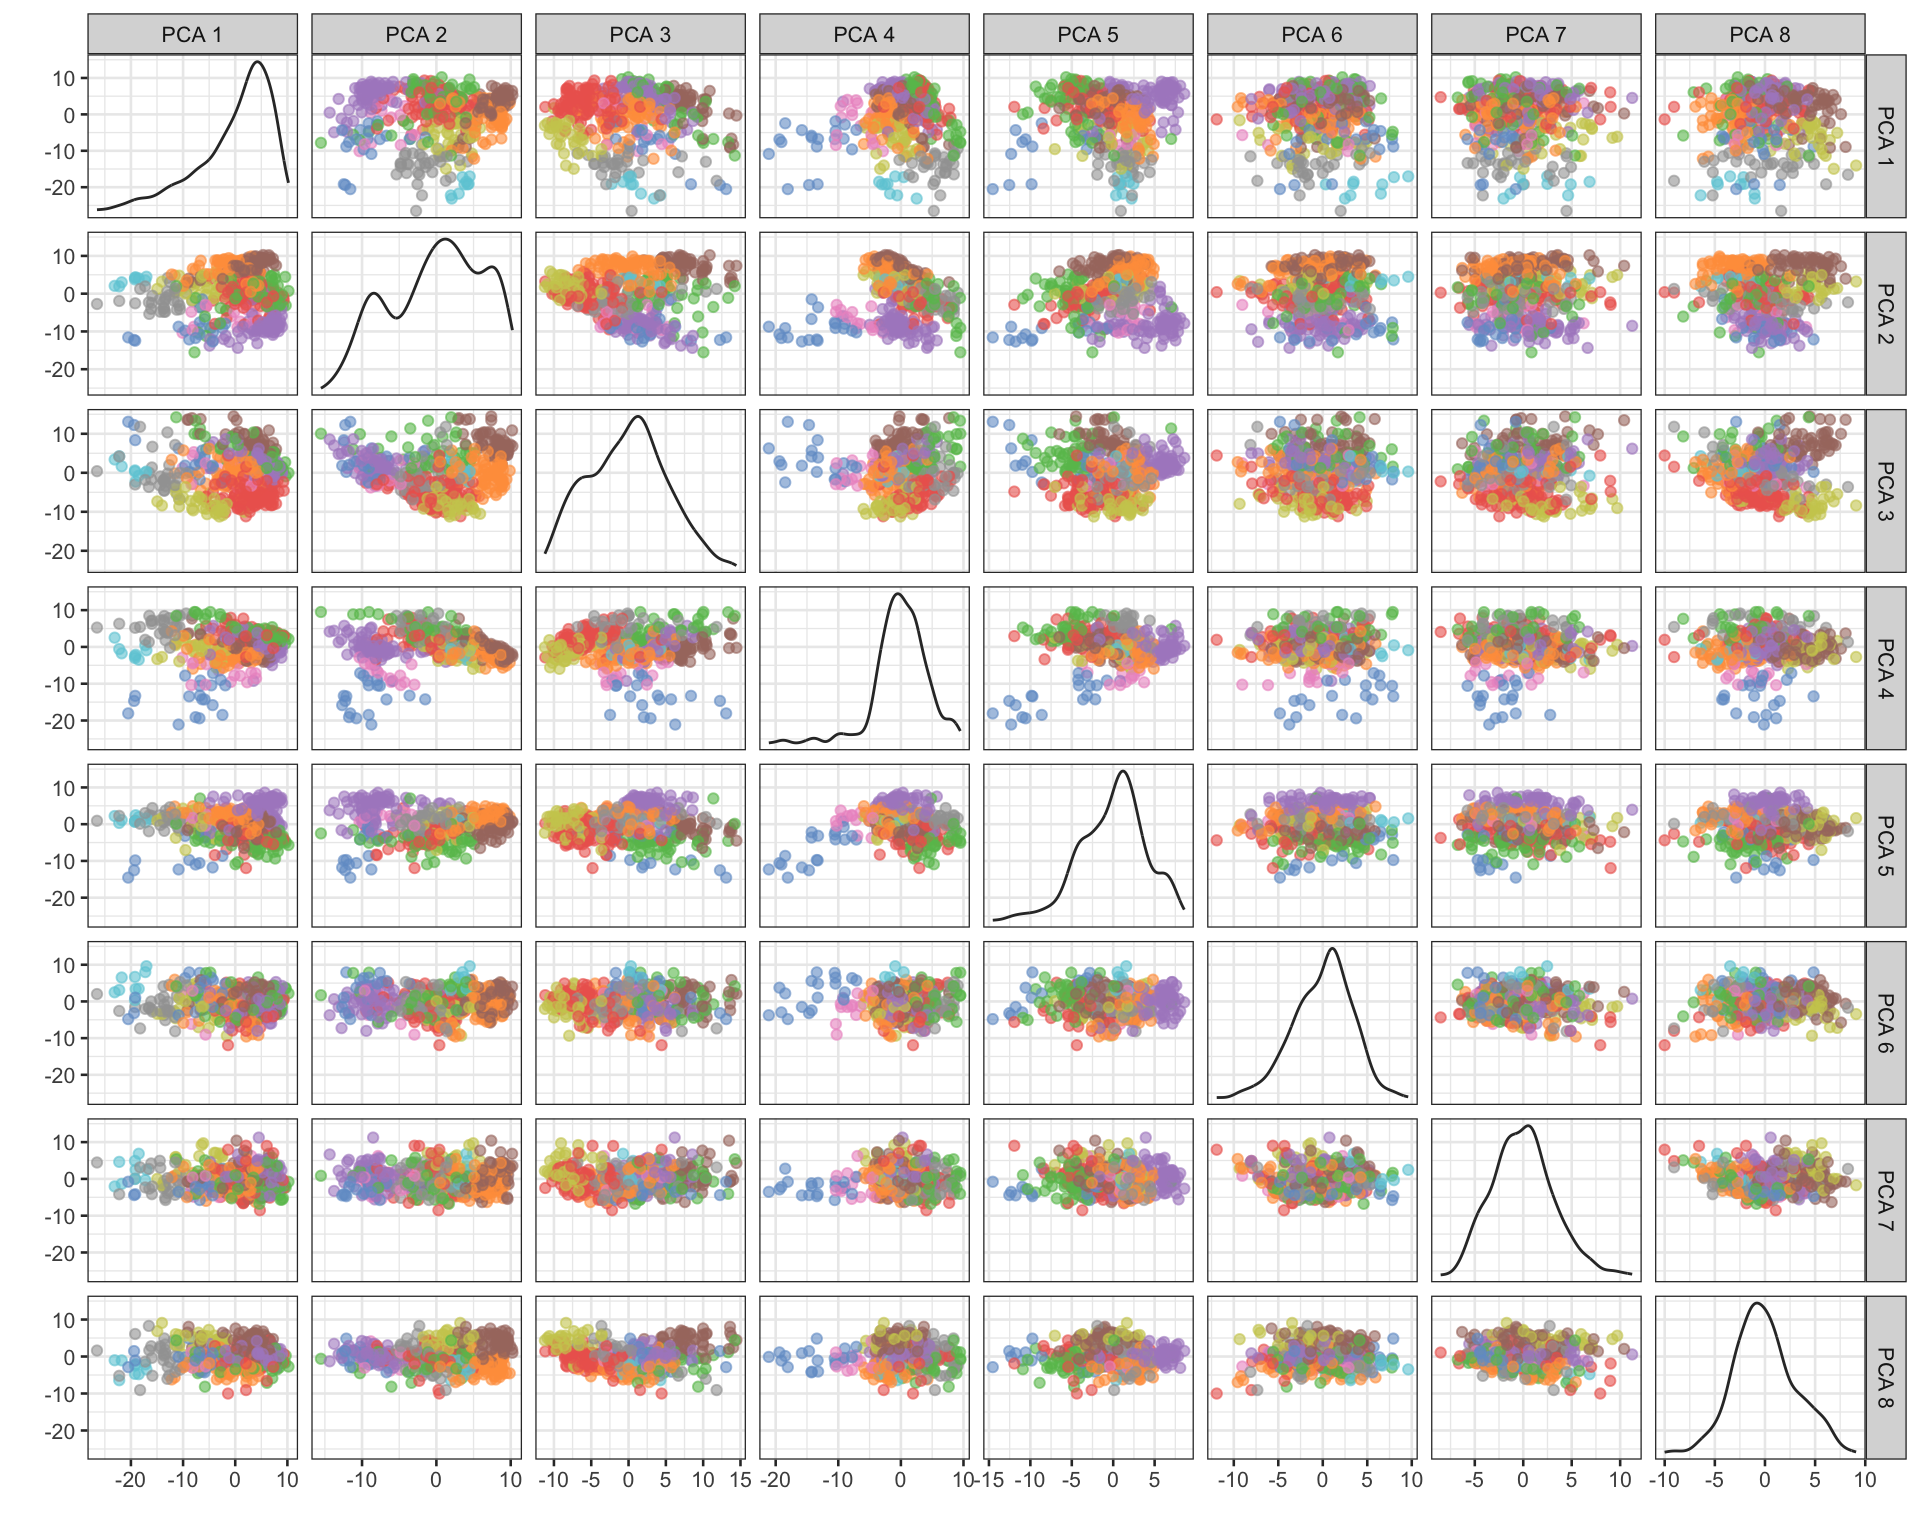
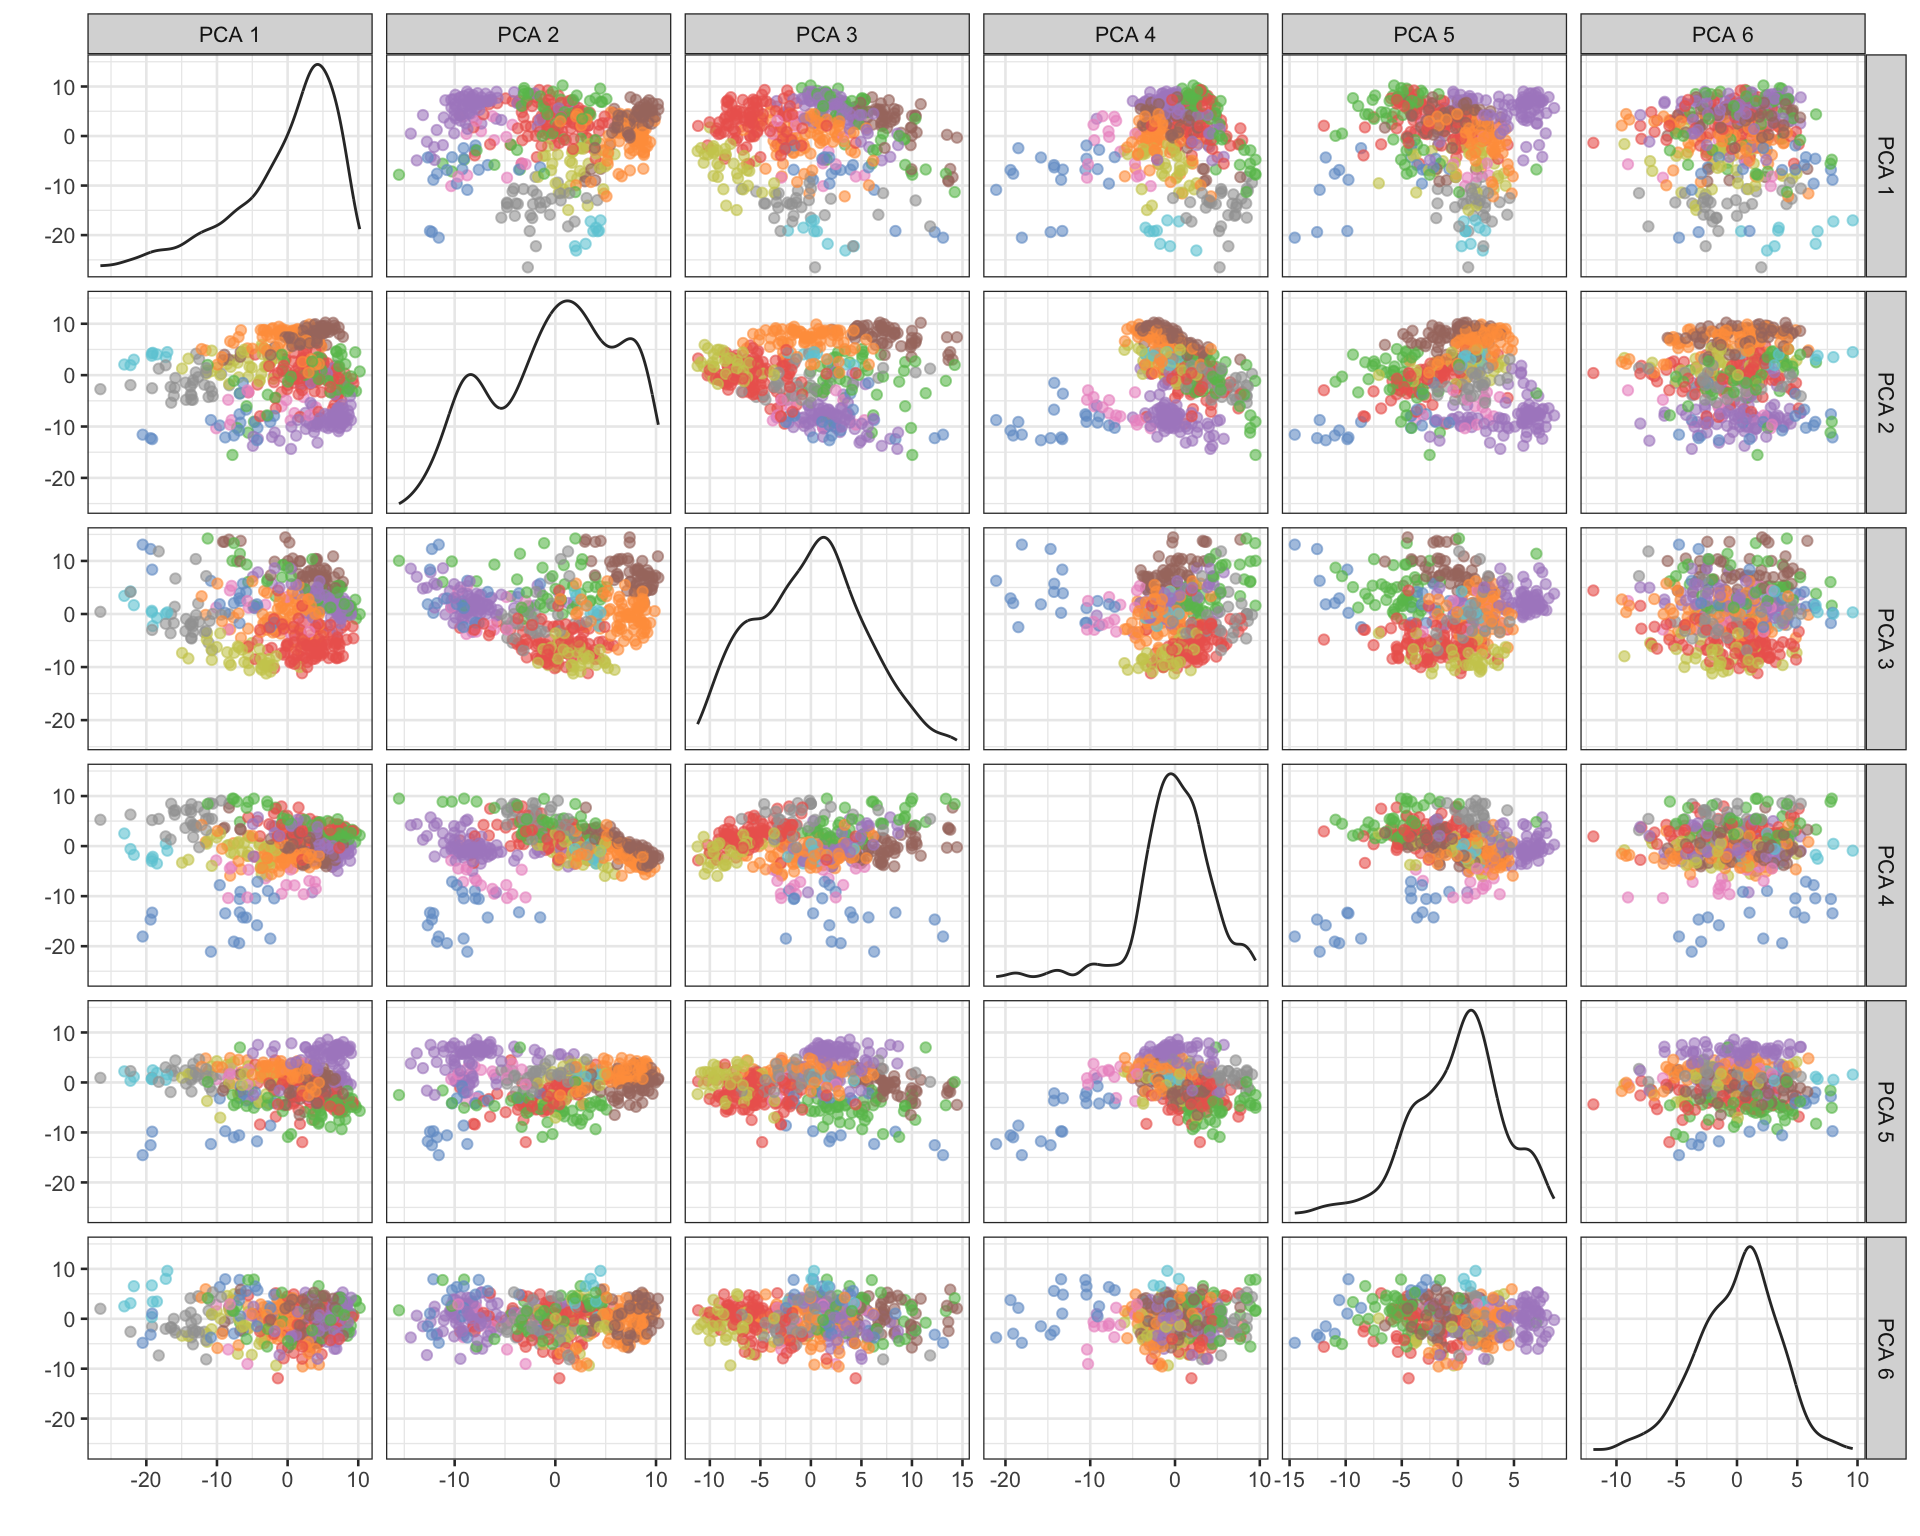
Build

diff --git a/docs/04-reduced-dimensions.html b/docs/04-reduced-dimensions.html
@@ -515,16 +515,16 @@ This reproducible <a href="http://rmarkdown.rstudio.com">R Markdown</a> analysis
 <div class="panel panel-default">
 <div class="panel-heading">
 <p class="panel-title">
-<a data-toggle="collapse" data-parent="#workflowr-checks" href="#strongRepositoryversionstrongahrefhttpsgithubcomjma1991EBKDRHOM2tree0d173d6681d5c1ff913b618a4fe3071f0dde3400targetblank0d173d6a"> <span class="glyphicon glyphicon-ok text-success" aria-hidden="true"></span> <strong>Repository version:</strong> <a href="https://github.com/jma1991/EB_KDR_HOM_2/tree/0d173d6681d5c1ff913b618a4fe3071f0dde3400" target="_blank">0d173d6</a> </a>
+<a data-toggle="collapse" data-parent="#workflowr-checks" href="#strongRepositoryversionstrongahrefhttpsgithubcomjma1991EBKDRHOM2tree044345e86510ce51dbc255fd4be4ea892bd8cd78targetblank044345ea"> <span class="glyphicon glyphicon-ok text-success" aria-hidden="true"></span> <strong>Repository version:</strong> <a href="https://github.com/jma1991/EB_KDR_HOM_2/tree/044345e86510ce51dbc255fd4be4ea892bd8cd78" target="_blank">044345e</a> </a>
 </p>
 </div>
[2 lines of base64/hex data omitted]
 <div class="panel-body">
 <p>
 Great! You are using Git for version control. Tracking code development and connecting the code version to the results is critical for reproducibility.
 </p>
 <p>
-The results in this page were generated with repository version <a href="https://github.com/jma1991/EB_KDR_HOM_2/tree/0d173d6681d5c1ff913b618a4fe3071f0dde3400" target="_blank">0d173d6</a>. See the <em>Past versions</em> tab to see a history of the changes made to the R Markdown and HTML files.
+The results in this page were generated with repository version <a href="https://github.com/jma1991/EB_KDR_HOM_2/tree/044345e86510ce51dbc255fd4be4ea892bd8cd78" target="_blank">044345e</a>. See the <em>Past versions</em> tab to see a history of the changes made to the R Markdown and HTML files.
 </p>
 <p>
 Note that you need to be careful to ensure that all relevant files for the analysis have been committed to Git prior to generating the results (you can use <code>wflow_publish</code> or <code>wflow_git_commit</code>). workflowr only checks the R Markdown file, but you know if there are other scripts or data files that it depends on. Below is the status of the Git repository when the results were generated:
@@ -594,6 +594,40 @@ Message
 </tr>
 </thead>
 <tbody>
+<tr>
+<td>
+Rmd
+</td>
+<td>
+<a href="https://github.com/jma1991/EB_KDR_HOM_2/blob/044345e86510ce51dbc255fd4be4ea892bd8cd78/analysis/04-reduced-dimensions.Rmd" target="_blank">044345e</a>
+</td>
+<td>
+James Ashmore
+</td>
+<td>
+2021-07-15
+</td>
+<td>
+Build
+</td>
+</tr>
+<tr>
+<td>
+html
+</td>
+<td>
+<a href="https://rawcdn.githack.com/jma1991/EB_KDR_HOM_2/69bd25c2f34582b6484738b23accc58c2528ba19/docs/04-reduced-dimensions.html" target="_blank">69bd25c</a>
+</td>
+<td>
+James Ashmore
+</td>
+<td>
+2021-07-15
+</td>
+<td>
+Build
+</td>
+</tr>
 <tr>
 <td>
 Rmd
@@ -775,7 +809,7 @@ ggplot(dat, aes(n.pcs, n.clusters)) +
 <div id="selection" class="section level3">
 <h3>Selection</h3>
 <p>Choose number of PCs to retain from the above analyses:</p>
-<pre class="r"><code>num &lt;- 8
+<pre class="r"><code>num &lt;- 6
 
 len &lt;- seq_len(num)
 
@@ -785,6 +819,43 @@ reducedDim(sce, &quot;PCA&quot;) &lt;- dim[, len]</code></pre>
 <p>Plot scatterplot matrix of retained PCs:</p>
 <pre class="r"><code>plotPCA(sce, colour_by = &quot;cluster&quot;, ncomponents = num) + theme(legend.position = &quot;none&quot;)</code></pre>
 <p><img src="figure/04-reduced-dimensions.Rmd/unnamed-chunk-13-1.png" width="960" style="display: block; margin: auto;" /></p>
+<p>
+<button type="button" class="btn btn-default btn-xs btn-workflowr btn-workflowr-fig" data-toggle="collapse" data-target="#fig-unnamed-chunk-13-1">
+Past versions of unnamed-chunk-13-1.png
+</button>
+</p>
+<div id="fig-unnamed-chunk-13-1" class="collapse">
+<div class="table-responsive">
+<table class="table table-condensed table-hover">
+<thead>
+<tr>
+<th>
+Version
+</th>
+<th>
+Author
+</th>
+<th>
+Date
+</th>
+</tr>
+</thead>
+<tbody>
+<tr>
+<td>
+<a href="https://github.com/jma1991/EB_KDR_HOM_2/blob/69bd25c2f34582b6484738b23accc58c2528ba19/docs/figure/04-reduced-dimensions.Rmd/unnamed-chunk-13-1.png" target="_blank">69bd25c</a>
+</td>
+<td>
+James Ashmore
+</td>
+<td>
+2021-07-15
+</td>
+</tr>
+</tbody>
+</table>
+</div>
+</div>
 <p>Cluster cells to help examine effect of TSNE and UMAP hyper-parameters:</p>
 <pre class="r"><code>snn &lt;- buildSNNGraph(sce, use.dimred = &quot;PCA&quot;)
 
@@ -827,6 +898,43 @@ plt &lt;- apply(arg, 1, function(x) {
 
 wrap_plots(plt, nrow = 6, ncol = 6, byrow = FALSE)</code></pre>
 <p><img src="figure/04-reduced-dimensions.Rmd/unnamed-chunk-15-1.png" width="960" style="display: block; margin: auto;" /></p>
+<p>
+<button type="button" class="btn btn-default btn-xs btn-workflowr btn-workflowr-fig" data-toggle="collapse" data-target="#fig-unnamed-chunk-15-1">
+Past versions of unnamed-chunk-15-1.png
+</button>
+</p>
+<div id="fig-unnamed-chunk-15-1" class="collapse">
+<div class="table-responsive">
+<table class="table table-condensed table-hover">
+<thead>
+<tr>
+<th>
+Version
+</th>
+<th>
+Author
+</th>
+<th>
+Date
+</th>
+</tr>
+</thead>
+<tbody>
+<tr>
+<td>
+<a href="https://github.com/jma1991/EB_KDR_HOM_2/blob/69bd25c2f34582b6484738b23accc58c2528ba19/docs/figure/04-reduced-dimensions.Rmd/unnamed-chunk-15-1.png" target="_blank">69bd25c</a>
+</td>
+<td>
+James Ashmore
+</td>
+<td>
+2021-07-15
+</td>
+</tr>
+</tbody>
+</table>
+</div>
+</div>
 </div>
 <div id="calculate-tsne" class="section level3">
 <h3>Calculate TSNE</h3>
@@ -868,6 +976,43 @@ plt &lt;- apply(arg, 1, function(x) {
 
 wrap_plots(plt, nrow = 6, ncol = 6, byrow = FALSE)</code></pre>
 <p><img src="figure/04-reduced-dimensions.Rmd/unnamed-chunk-17-1.png" width="960" style="display: block; margin: auto;" /></p>
+<p>
+<button type="button" class="btn btn-default btn-xs btn-workflowr btn-workflowr-fig" data-toggle="collapse" data-target="#fig-unnamed-chunk-17-1">
+Past versions of unnamed-chunk-17-1.png
+</button>
+</p>
+<div id="fig-unnamed-chunk-17-1" class="collapse">
+<div class="table-responsive">
+<table class="table table-condensed table-hover">
+<thead>
+<tr>
+<th>
+Version
+</th>
+<th>
+Author
+</th>
+<th>
+Date
+</th>
+</tr>
+</thead>
+<tbody>
+<tr>
+<td>
+<a href="https://github.com/jma1991/EB_KDR_HOM_2/blob/69bd25c2f34582b6484738b23accc58c2528ba19/docs/figure/04-reduced-dimensions.Rmd/unnamed-chunk-17-1.png" target="_blank">69bd25c</a>
+</td>
+<td>
+James Ashmore
+</td>
+<td>
+2021-07-15
+</td>
+</tr>
+</tbody>
+</table>
+</div>
+</div>
 </div>
 <div id="calculate-umap" class="section level3">
 <h3>Calculate UMAP</h3>
@@ -887,6 +1032,43 @@ plt &lt;- lapply(var, function(x) plotPCA(sce, colour_by = x))
 
 patchwork::wrap_plots(plt, ncol = 2)</code></pre>
 <p><img src="figure/04-reduced-dimensions.Rmd/unnamed-chunk-19-1.png" width="960" style="display: block; margin: auto;" /></p>
+<p>
+<button type="button" class="btn btn-default btn-xs btn-workflowr btn-workflowr-fig" data-toggle="collapse" data-target="#fig-unnamed-chunk-19-1">
+Past versions of unnamed-chunk-19-1.png
+</button>
+</p>
+<div id="fig-unnamed-chunk-19-1" class="collapse">
+<div class="table-responsive">
+<table class="table table-condensed table-hover">
+<thead>
+<tr>
+<th>
+Version
+</th>
+<th>
+Author
+</th>
+<th>
+Date
+</th>
+</tr>
+</thead>
+<tbody>
+<tr>
+<td>
+<a href="https://github.com/jma1991/EB_KDR_HOM_2/blob/69bd25c2f34582b6484738b23accc58c2528ba19/docs/figure/04-reduced-dimensions.Rmd/unnamed-chunk-19-1.png" target="_blank">69bd25c</a>
+</td>
+<td>
+James Ashmore
+</td>
+<td>
+2021-07-15
+</td>
+</tr>
+</tbody>
+</table>
+</div>
+</div>
 </div>
 <div id="tsne-1" class="section level3">
 <h3>TSNE</h3>
@@ -896,6 +1078,43 @@ plt &lt;- lapply(var, function(x) plotTSNE(sce, colour_by = x))
 
 patchwork::wrap_plots(plt, ncol = 2)</code></pre>
 <p><img src="figure/04-reduced-dimensions.Rmd/unnamed-chunk-20-1.png" width="960" style="display: block; margin: auto;" /></p>
+<p>
+<button type="button" class="btn btn-default btn-xs btn-workflowr btn-workflowr-fig" data-toggle="collapse" data-target="#fig-unnamed-chunk-20-1">
+Past versions of unnamed-chunk-20-1.png
+</button>
+</p>
+<div id="fig-unnamed-chunk-20-1" class="collapse">
+<div class="table-responsive">
+<table class="table table-condensed table-hover">
+<thead>
+<tr>
+<th>
+Version
+</th>
+<th>
+Author
+</th>
+<th>
+Date
+</th>
+</tr>
+</thead>
+<tbody>
+<tr>
+<td>
+<a href="https://github.com/jma1991/EB_KDR_HOM_2/blob/69bd25c2f34582b6484738b23accc58c2528ba19/docs/figure/04-reduced-dimensions.Rmd/unnamed-chunk-20-1.png" target="_blank">69bd25c</a>
+</td>
+<td>
+James Ashmore
+</td>
+<td>
+2021-07-15
+</td>
+</tr>
+</tbody>
+</table>
+</div>
+</div>
 </div>
 <div id="umap-1" class="section level3">
 <h3>UMAP</h3>
@@ -905,6 +1124,43 @@ plt &lt;- lapply(var, function(x) plotUMAP(sce, colour_by = x))
 
 patchwork::wrap_plots(plt, ncol = 2)</code></pre>
 <p><img src="figure/04-reduced-dimensions.Rmd/unnamed-chunk-21-1.png" width="960" style="display: block; margin: auto;" /></p>
+<p>
+<button type="button" class="btn btn-default btn-xs btn-workflowr btn-workflowr-fig" data-toggle="collapse" data-target="#fig-unnamed-chunk-21-1">
+Past versions of unnamed-chunk-21-1.png
+</button>
+</p>
+<div id="fig-unnamed-chunk-21-1" class="collapse">
+<div class="table-responsive">
+<table class="table table-condensed table-hover">
+<thead>
+<tr>
+<th>
+Version
+</th>
+<th>
+Author
+</th>
+<th>
+Date
+</th>
+</tr>
+</thead>
+<tbody>
+<tr>
+<td>
+<a href="https://github.com/jma1991/EB_KDR_HOM_2/blob/69bd25c2f34582b6484738b23accc58c2528ba19/docs/figure/04-reduced-dimensions.Rmd/unnamed-chunk-21-1.png" target="_blank">69bd25c</a>
+</td>
+<td>
+James Ashmore
+</td>
+<td>
+2021-07-15
+</td>
+</tr>
+</tbody>
+</table>
+</div>
+</div>
 </div>
 </div>
 <div id="summary" class="section level2">
